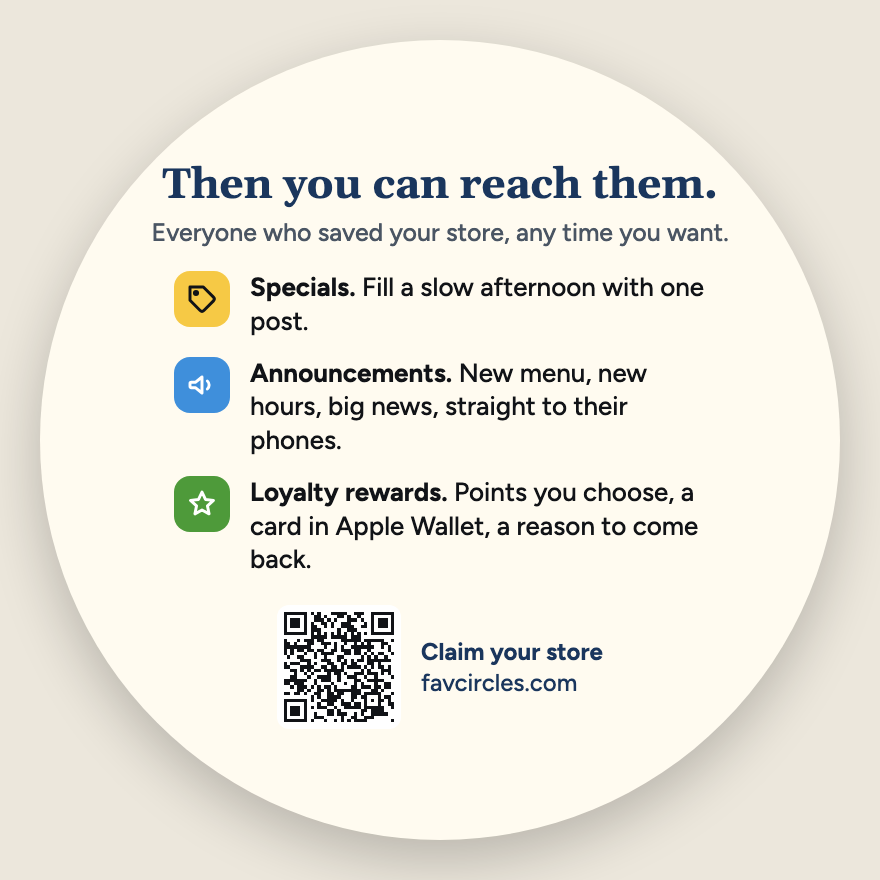
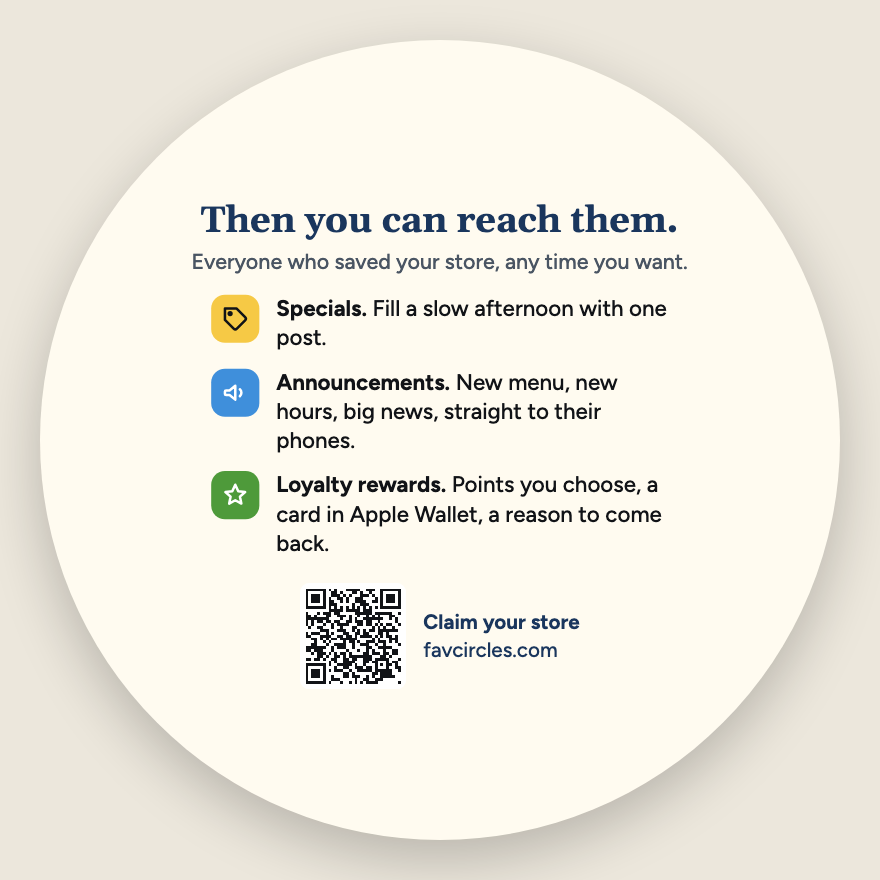
Store-owner coaster back: everything a little smaller, clear of the edge

Changed region(s): [[0.1534, 0.1841, 0.8284, 0.6443], [0.3068, 0.675, 0.7057, 0.8284]]

diff --git a/Marketing/store-owner-leave-behinds/source/1-coaster-back.html b/Marketing/store-owner-leave-behinds/source/1-coaster-back.html
@@ -8,6 +8,7 @@ a{color:#1A365D}a:hover{color:#111317}
 
 <div style="width: 440px; height: 440px; background: #ECE7DC; display: flex; align-items: center; justify-content: center; font-family: 'Figtree', 'Avenir Next', sans-serif">
 <div style="width: 400px; height: 400px; border-radius: 50%; background: #FFFBF0; position: relative; display: flex; flex-direction: column; align-items: center; justify-content: center; gap: 12px; box-shadow: 0 10px 28px rgba(0,0,0,0.22)">
+<div style="display: flex; flex-direction: column; align-items: center; gap: 12px; transform: scale(0.86)">
 <div style="text-align: center; margin-top: 6px">
 <div style="font-family: 'Gelasio', Georgia, serif; font-weight: 700; font-size: 21px; color: #1A365D; line-height: 1.1">Then you can reach them.</div>
 <div style="font-size: 12.5px; color: #4A5563; margin-top: 4px">Everyone who saved your store, any time you want.</div>
@@ -35,6 +36,7 @@ a{color:#1A365D}a:hover{color:#111317}
 <div style="display: flex; align-items: center; gap: 10px; margin-top: 2px">
 <img src="qr-store-owners.svg" alt="QR code to the FavCircles Store Owners page" style="width: 62px; height: 62px; display: block; border-radius: 6px">
 <div style="font-size: 12px; color: #1A365D; line-height: 1.3"><b>Claim your store</b><br>favcircles.com</div>
+</div>
 </div>
 </div>
 </div>
